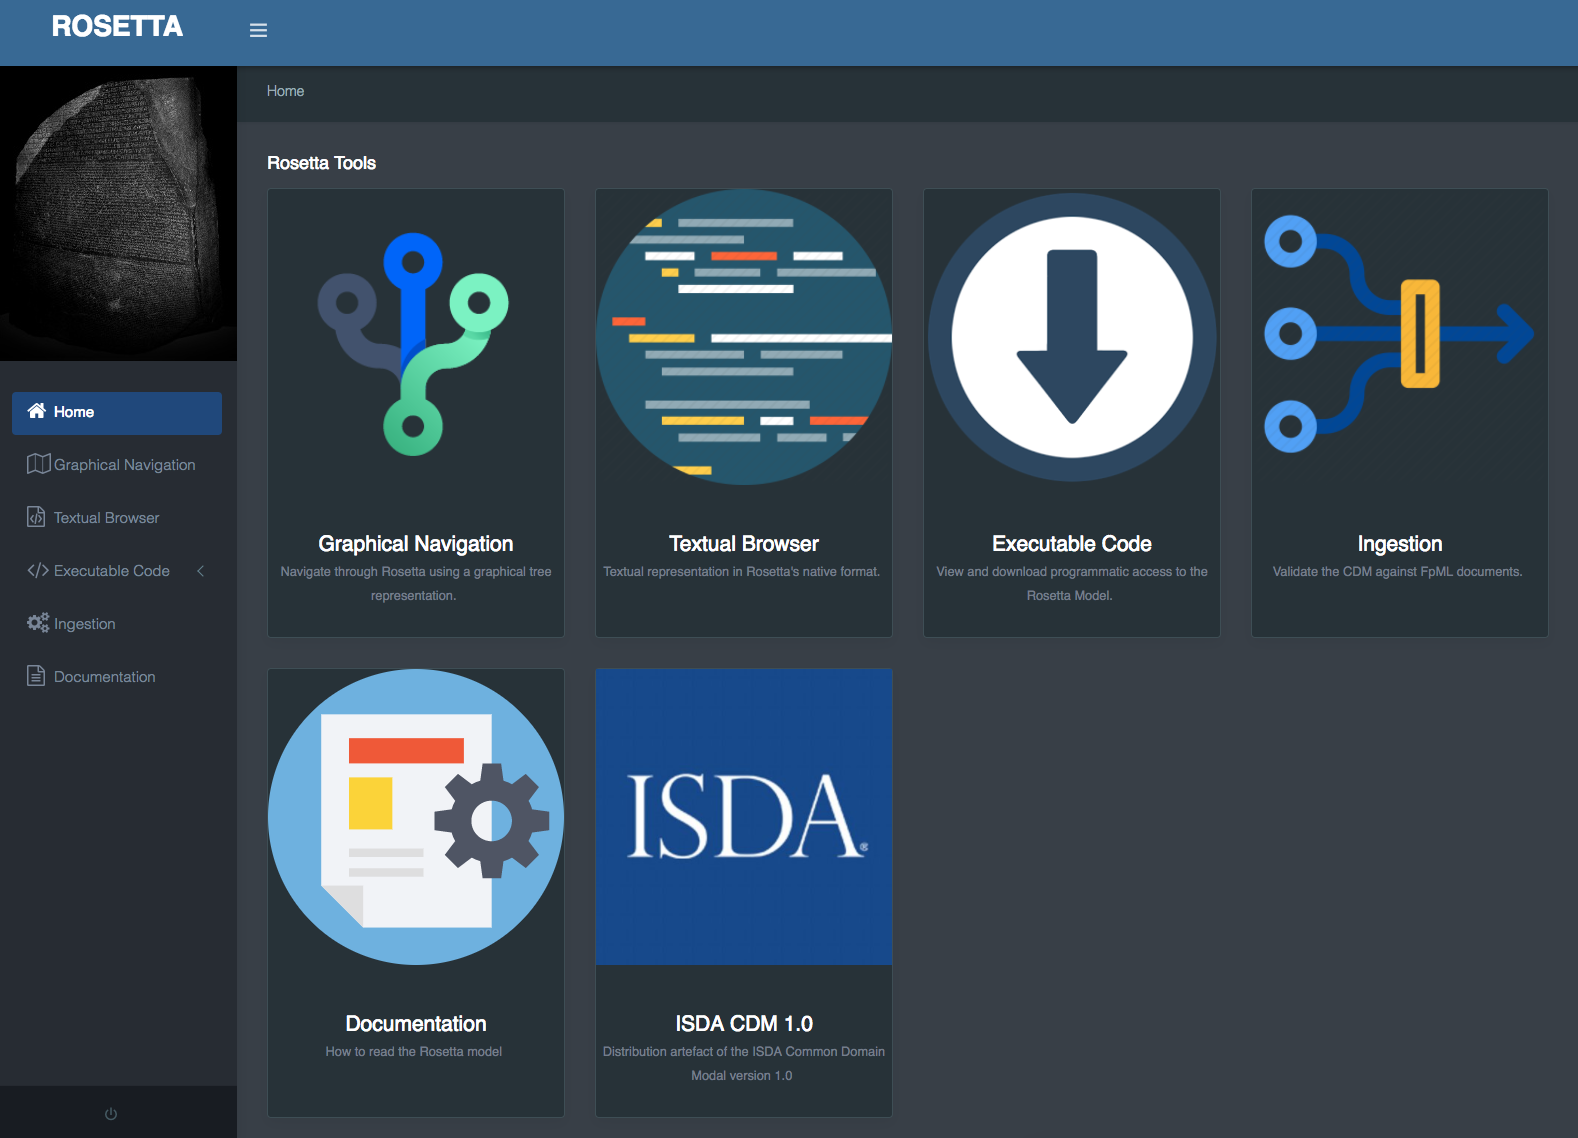
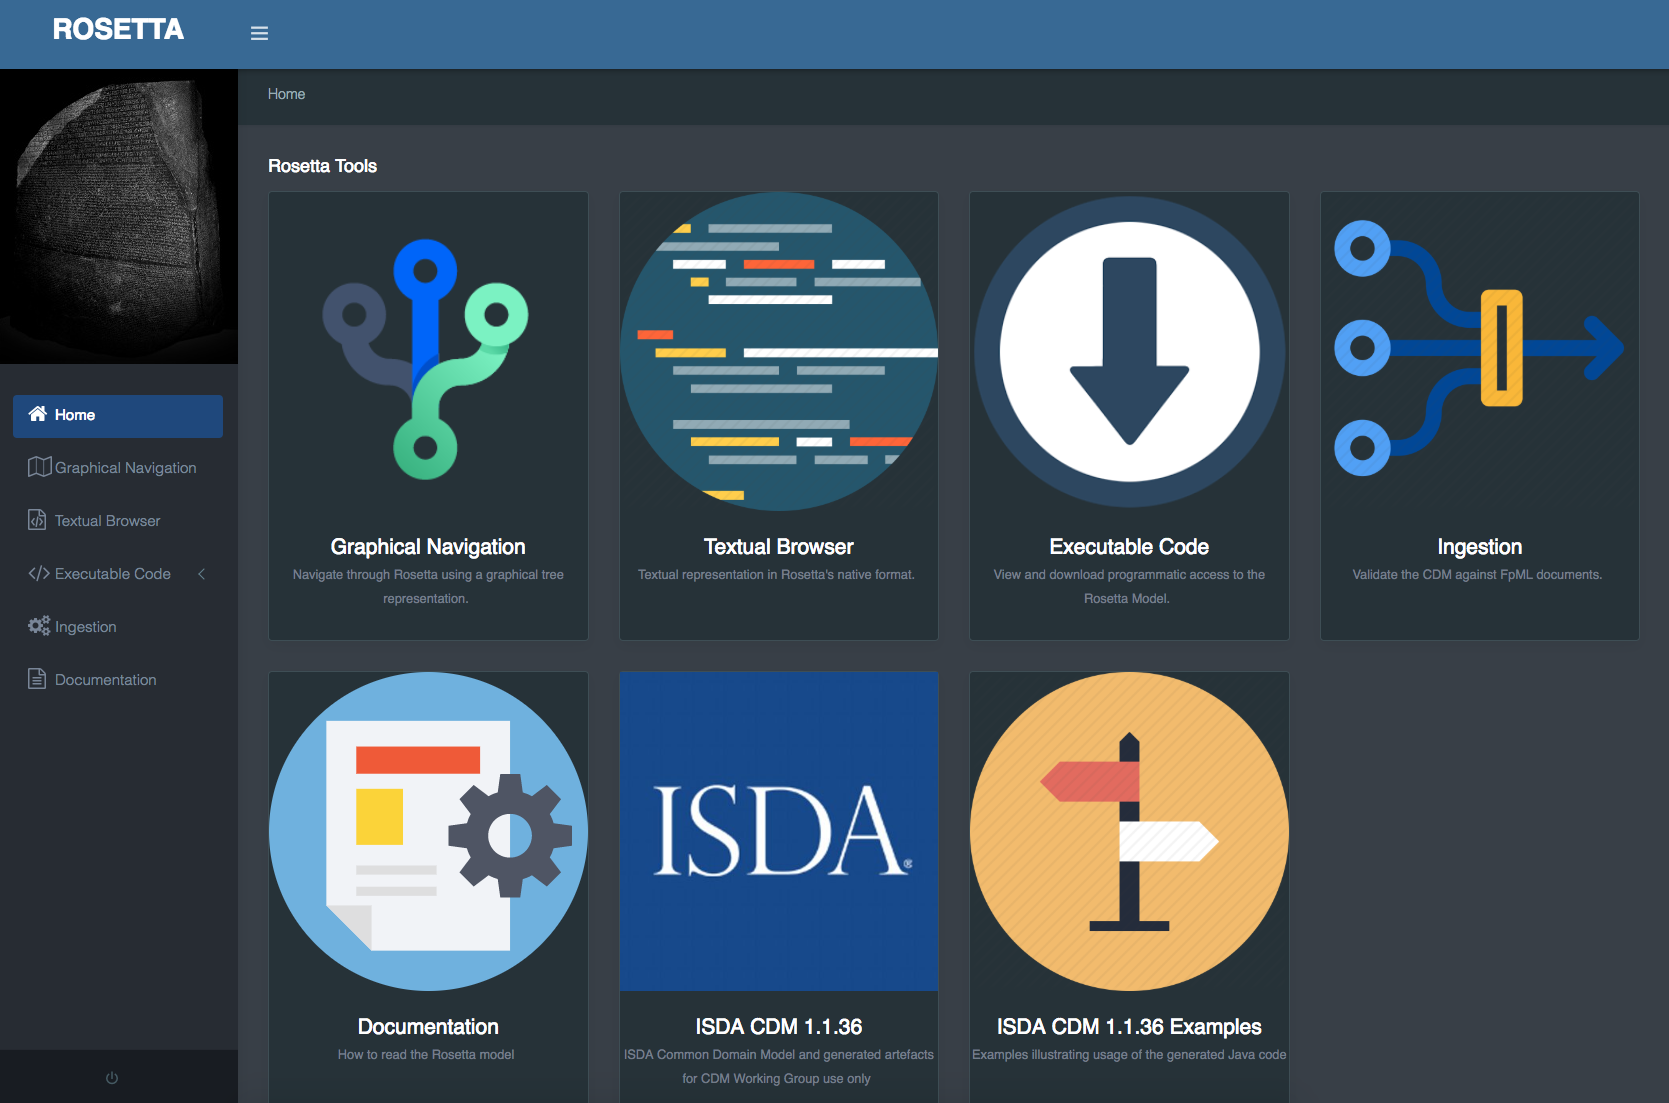
Documentation update

diff --git a/documentation/source/documentation.rst b/documentation/source/documentation.rst
@@ -43,9 +43,26 @@ The **Rosetta Workbench** corresponds to the toolset that supports the CDM, thro
 * The **ingestion service**, which transforms events and trades expressed using alternative data representations into JSON documents that conform to the CDM. At present, the ingested trades confirm to the version 5.10 of the FpML standard, and the events are originated using a custom data representation.
 * The **code generators**, which are used to produce the executable code projections that are part of the model repository. Those code generators are developed using the same open source software component as the grammar, and access to those is not required for CDM usage purposes.
 
-Those worbench components are presented in the below picture, the further one being the milestoned CDM 1.0 version of the model. Once further version of the CDM will be released, this icon will be repositioned as a generic access to those respective versions.
+Those workbench components are presented in the below picture.
 
 .. figure:: rosetta-home.png
+
+The CDM Components
+==================
+
+The below **ISDA CDM Components Diagram** lays out the three set of CDM application components:
+
+* The **Rosetta Workbench** corresponds to the 'under the hood' components with respect to the CDM: the Rosetta grammar and the Rosetta code generators, which together form the Rosetta DSL, and the associated test infrastructure and Rosetta portal, which have been developed through bespoke code.
+* The **ISDA CDM Distribution** is made available to participants as part of the download available from the Rosetta Portal and is subject to the ISDA CDM licence.  The most crucial components of this ISDA CDM Distribution are the following:
+
+  * The **Model Definition**, which corresponds to the actual Rosetta model, as expressed by the Rosetta syntax and which components are further detailed as part of the CDM Modelling Artefacts section of this documentation.
+  * The **Model Code Projection**, currently available as Java and JSON.  As the Rosetta syntax represents not just data components but also logic, the JSON representation has a quite limited scope and usefulness, and might be deprecated at some future point.
+  * While the two above components represent the essence of the model and are meant to be used as such by implementers, the **Default Apps** correspond to default implementations which can either be used as such, or be disabled or extended by those participants.  An example of such would be the rosettaKey implementation, which uses the default Java hash code function, but which might be deemed as inappropriate by some participants and hence be replaced by some alternative implementation.
+
+* **CDM Implementations** by service providers. It is expected that a rich eco-system of such licensed application components that are based upon the CDM will develop over time. REGnosys is just the first to have taken the initiative to develop an offering of solutions, which purpose is to assist market participants in making use of the CDM.  ISDA doesn't endorse any of of those application components.
+
+
+.. figure:: cdm-components-diagram.png
 
 CDM Modelling Artefacts
 =======================
